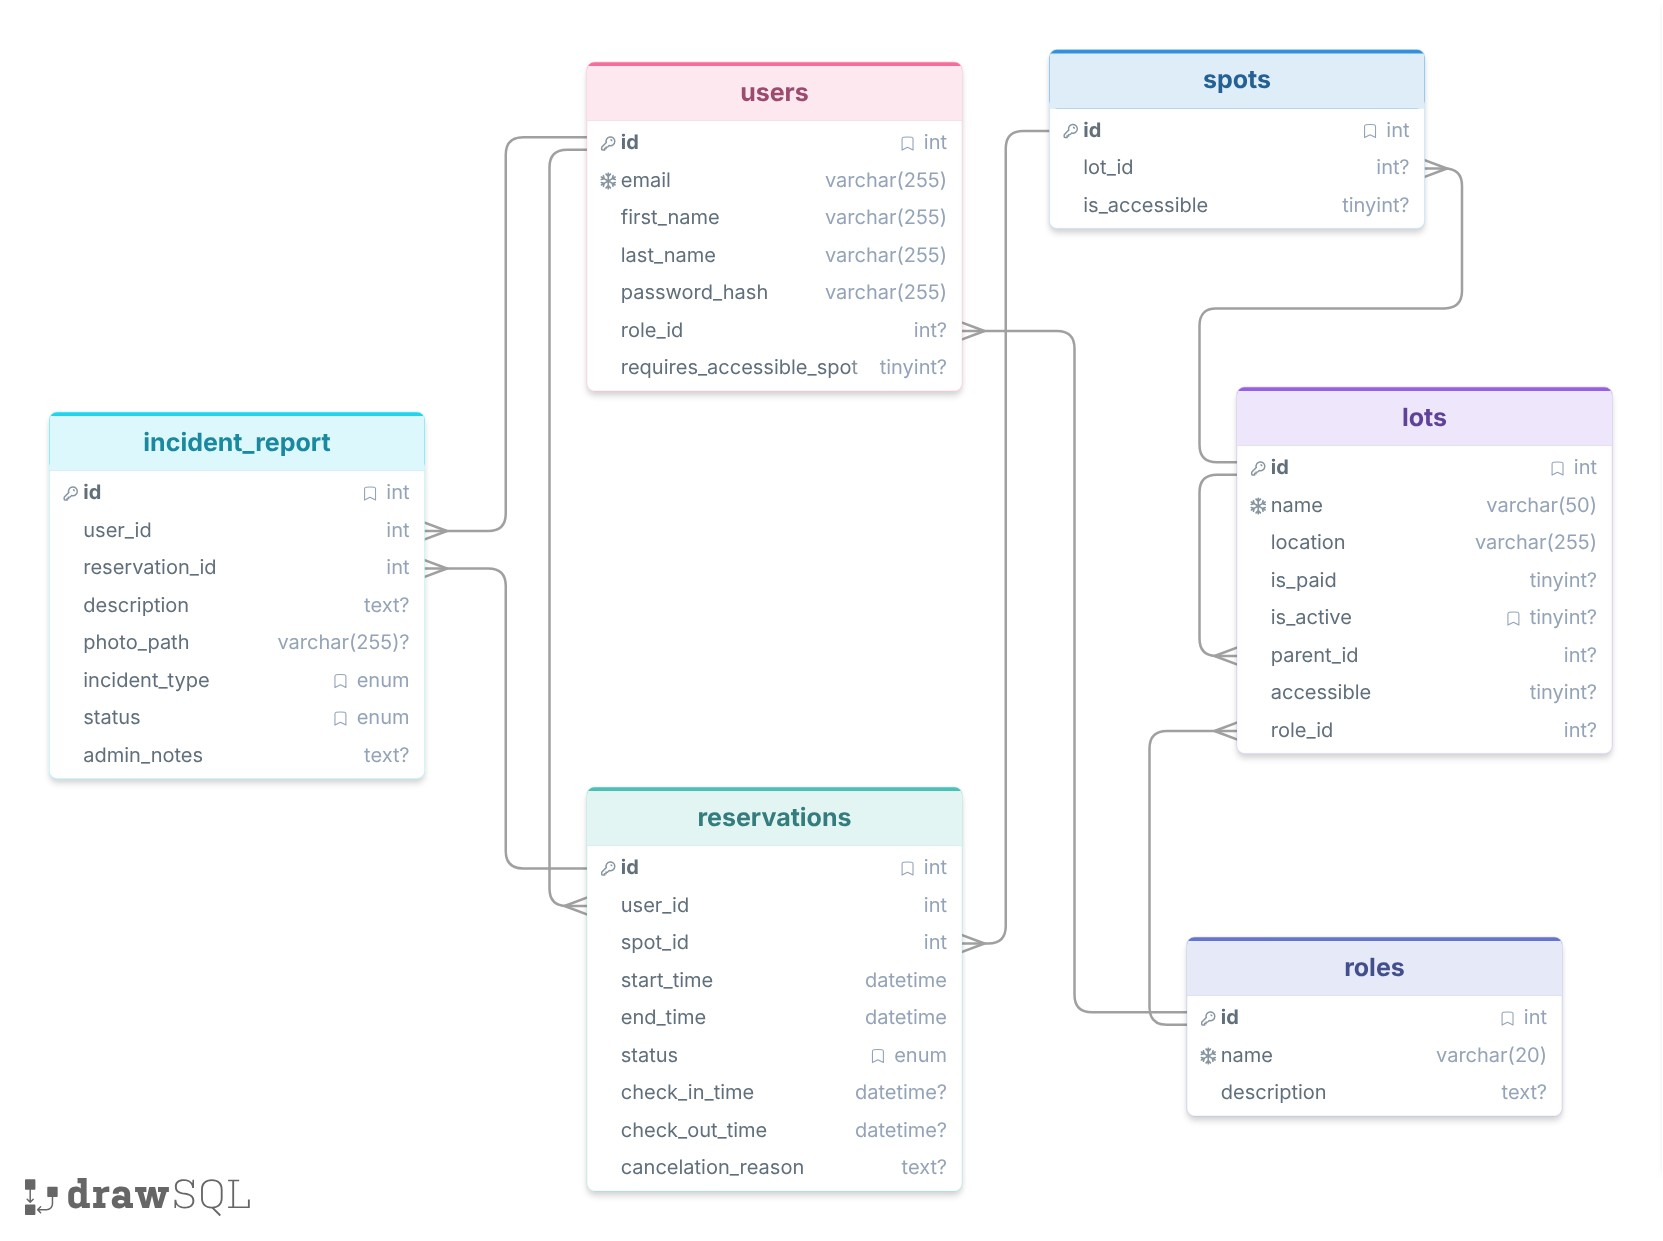
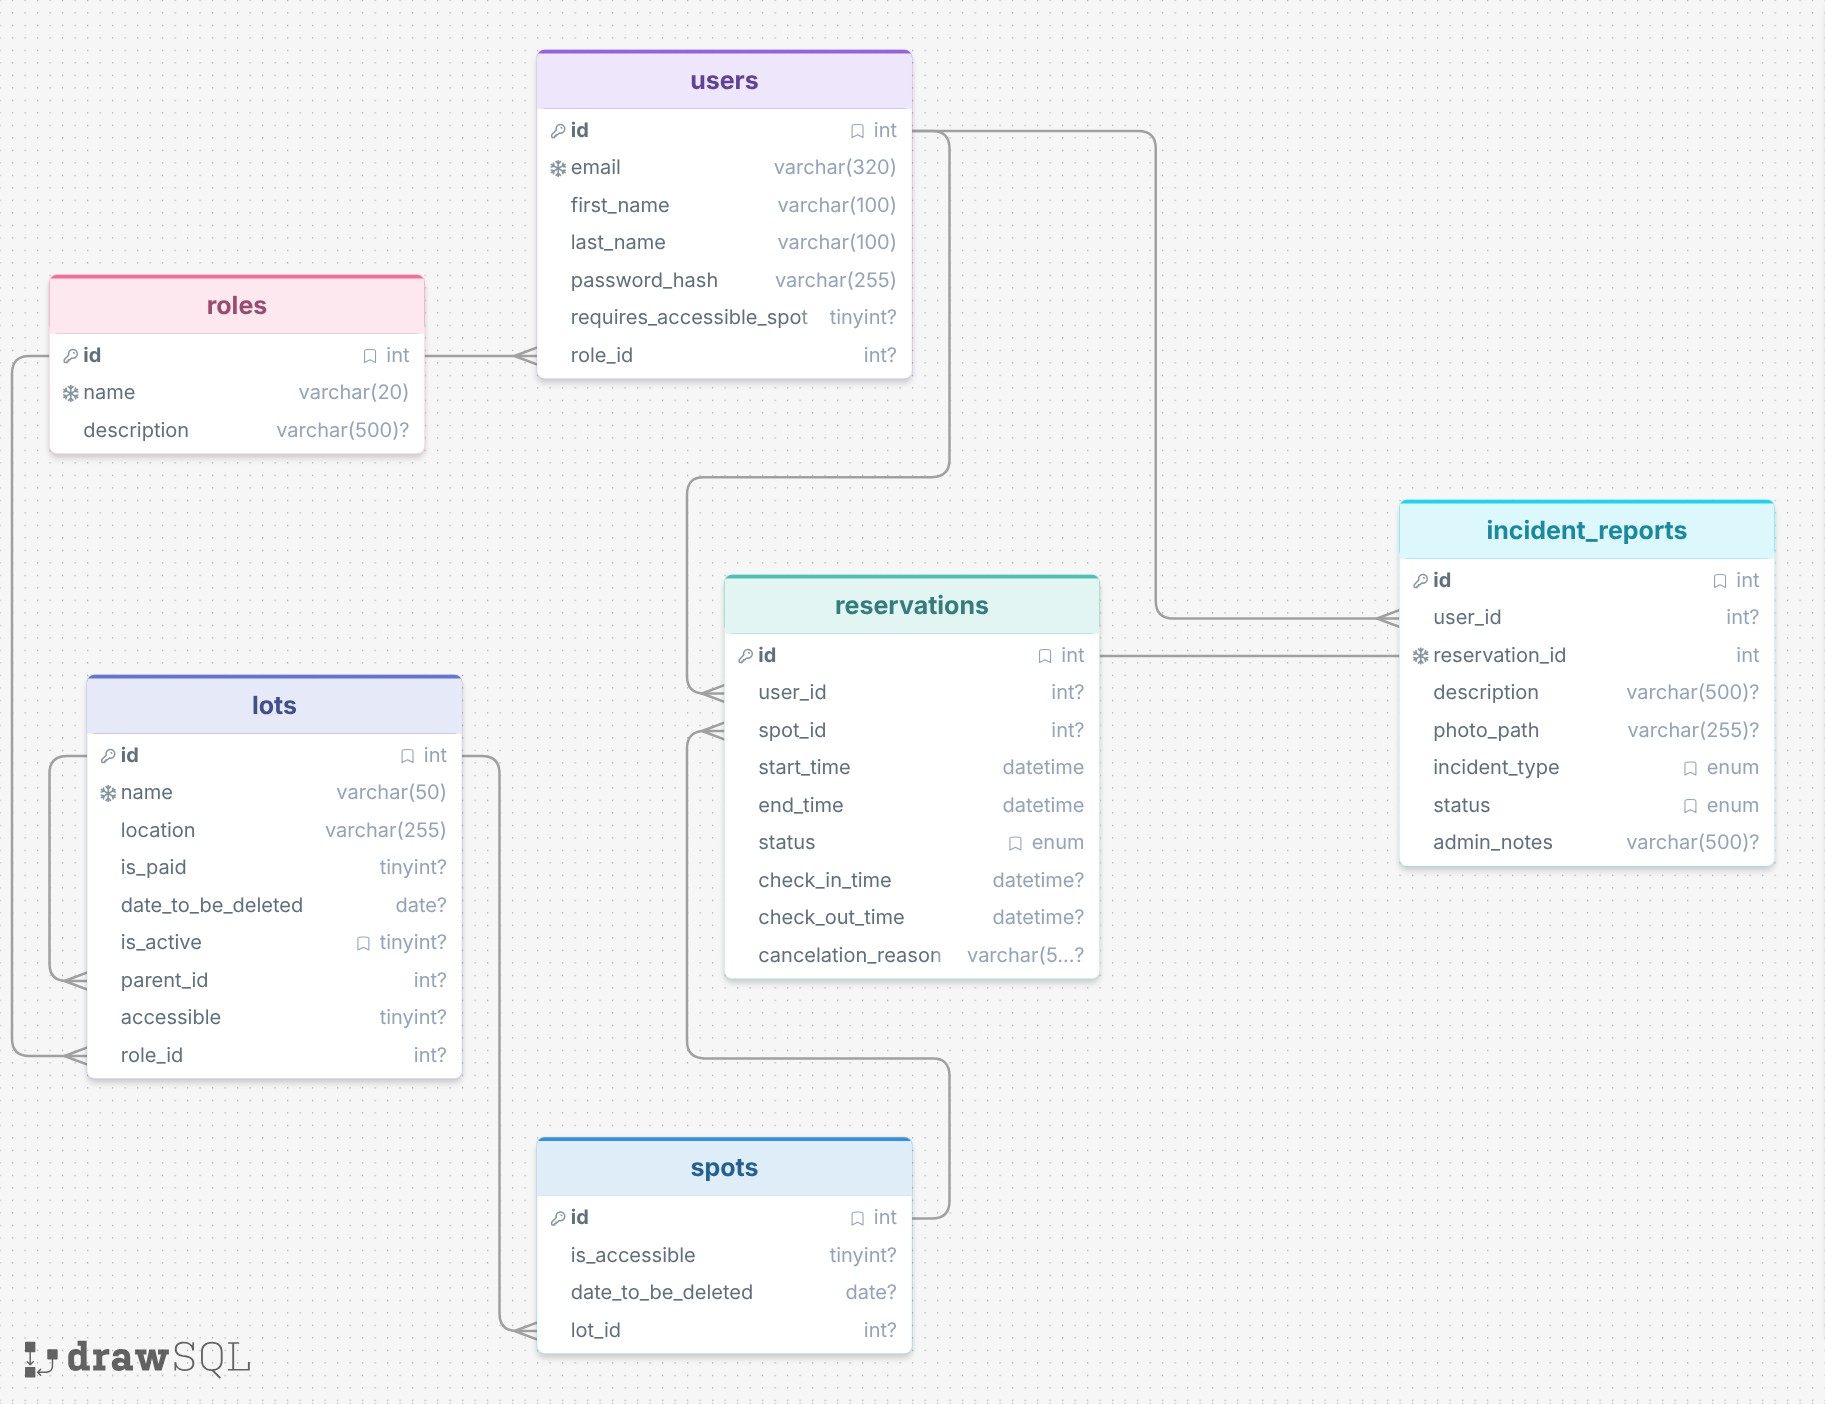
some changes to the database

diff --git a/app/models/Reservations.py b/app/models/Reservations.py
@@ -23,8 +23,6 @@ class Reservation(db.Model):
 	# 	end_time DATETIME NOT NULL,
 	end_time = db.Column(db.DateTime, nullable=False)
 
-	incident_report = db.relationship('IncidentReport', back_populates='reservation', uselist=False)
-
 	# 	status ENUM('Active', 'Completed', 'Cancelled') NOT NULL DEFAULT 'Active',
 	status = db.Column(db.Enum('Active', 'Completed', 'Cancelled', name='reservation_status'), nullable=False, default='Active')
 
@@ -34,7 +32,8 @@ class Reservation(db.Model):
 	# 	check_out_time DATETIME NULL,
 	check_out_time = db.Column(db.DateTime, nullable=True)
 
-	# 	cancelation_reason TEXT NULL,
-	cancelation_reason = db.Column(db.Text, nullable=True)
+	# 	cancelation_reason varchar(500) NULL,
+	cancelation_reason = db.Column(db.String(500), nullable=True)
 
+	incident_report = db.relationship('IncidentReport', back_populates='reservation', uselist=False)
 	

diff --git a/app/models/Incident_Reports.py b/app/models/Incident_Reports.py
@@ -16,8 +16,8 @@ class IncidentReport(db.Model):
 	reservation_id = db.Column(db.Integer, db.ForeignKey('reservations.id'), nullable=False, unique=True)
 	reservation = db.relationship('Reservation', back_populates='incident_report', uselist=False)
 
-	# description TEXT NULL,
-	description = db.Column(db.Text, nullable=True)
+	# description varchar(500) NULL,
+	description = db.Column(db.String(500), nullable=True)
 
 	# photo_path varchar(255) NULL,
 	photo_path = db.Column(db.String(255), nullable=True)
@@ -28,6 +28,7 @@ class IncidentReport(db.Model):
 	# status ENUM('Open', 'In Progress', 'Resolved') NOT NULL DEFAULT 'Open',
 	status = db.Column(db.Enum('Open', 'In Progress', 'Resolved'), nullable=False)
 
-	admin_notes = db.Column(db.Text, nullable=True)
+	# admin_notes varchar(500) NULL,
+	admin_notes = db.Column(db.String(500), nullable=True)
 
  

diff --git a/app/models/User.py b/app/models/User.py
@@ -7,14 +7,14 @@ class User(db.Model):
 	# 	id int AUTO_INCREMENT PRIMARY KEY,
 	id = db.Column(db.Integer, primary_key=True)
 
-	# 	email varchar(255) NOT NULL UNIQUE,
-	email = db.Column(db.String(255), unique=True, nullable=False, index=True)
+	# 	email varchar(320)) NOT NULL UNIQUE,
+	email = db.Column(db.String(320), unique=True, nullable=False, index=True)
 
-	# 	first_name varchar(255) NOT NULL,
-	first_name = db.Column(db.String(255), nullable=False)
+	# 	first_name varchar(100) NOT NULL,
+	first_name = db.Column(db.String(100), nullable=False)
 
-	# 	last_name varchar(255) NOT NULL,
-	last_name = db.Column(db.String(255), nullable=False)
+	# 	last_name varchar(100) NOT NULL,
+	last_name = db.Column(db.String(100), nullable=False)
 
 	# 	password_hash varchar(255) NOT NULL,
 	password_hash = db.Column(db.String(255), nullable=False)

diff --git a/app/models/Roles.py b/app/models/Roles.py
@@ -10,8 +10,8 @@ class Role(db.Model):
 	# 	name varchar(20) NOT NULL UNIQUE,
 	name = db.Column(db.String(20), unique=True, nullable=False)
 
-	# 	description TEXT NULL
-	description = db.Column(db.Text, nullable=True)
+	# 	description varchar(500) NULL
+	description = db.Column(db.String(500), nullable=True)
 
 	users = db.relationship('User', back_populates='role', lazy=True)
 	lots = db.relationship('Lots', back_populates='role', lazy=True)
@@ -21,7 +21,7 @@ class Role(db.Model):
 	def add_default_roles(cls):
 		default_roles = {
 			'admin': 'Tiene acceso completo a la administración del sistema y puede reservar en todos los lotes?',
-			'usuario': '?',
+			'estudiante': '?',
 			'empleado': '?',
 		}
 		existing_roles = {

diff --git a/app/models/Spots.py b/app/models/Spots.py
@@ -9,6 +9,9 @@ class Spots(db.Model):
 	# 	is_accessible TINYINT DEFAULT 0,
 	is_accessible = db.Column(db.Boolean, default=False)
 
+	date_to_be_deleted = db.Column(db.Date, nullable=True)
+
+
 	# 	lot_id int,
 	# 	FOREIGN KEY (lot_id) REFERENCES lots(id)
 	lot_id = db.Column(db.Integer, db.ForeignKey('lots.id'))

diff --git a/app/models/Lots.py b/app/models/Lots.py
@@ -15,6 +15,8 @@ class Lots(db.Model):
 	# 	is_paid TINYINT DEFAULT 0,
 	is_paid = db.Column(db.Boolean, default=False)
 
+	date_to_be_deleted = db.Column(db.Date, nullable=True)
+
 	# 	is_active TINYINT DEFAULT 1,
 	is_active = db.Column(db.Boolean, default=True)
 
